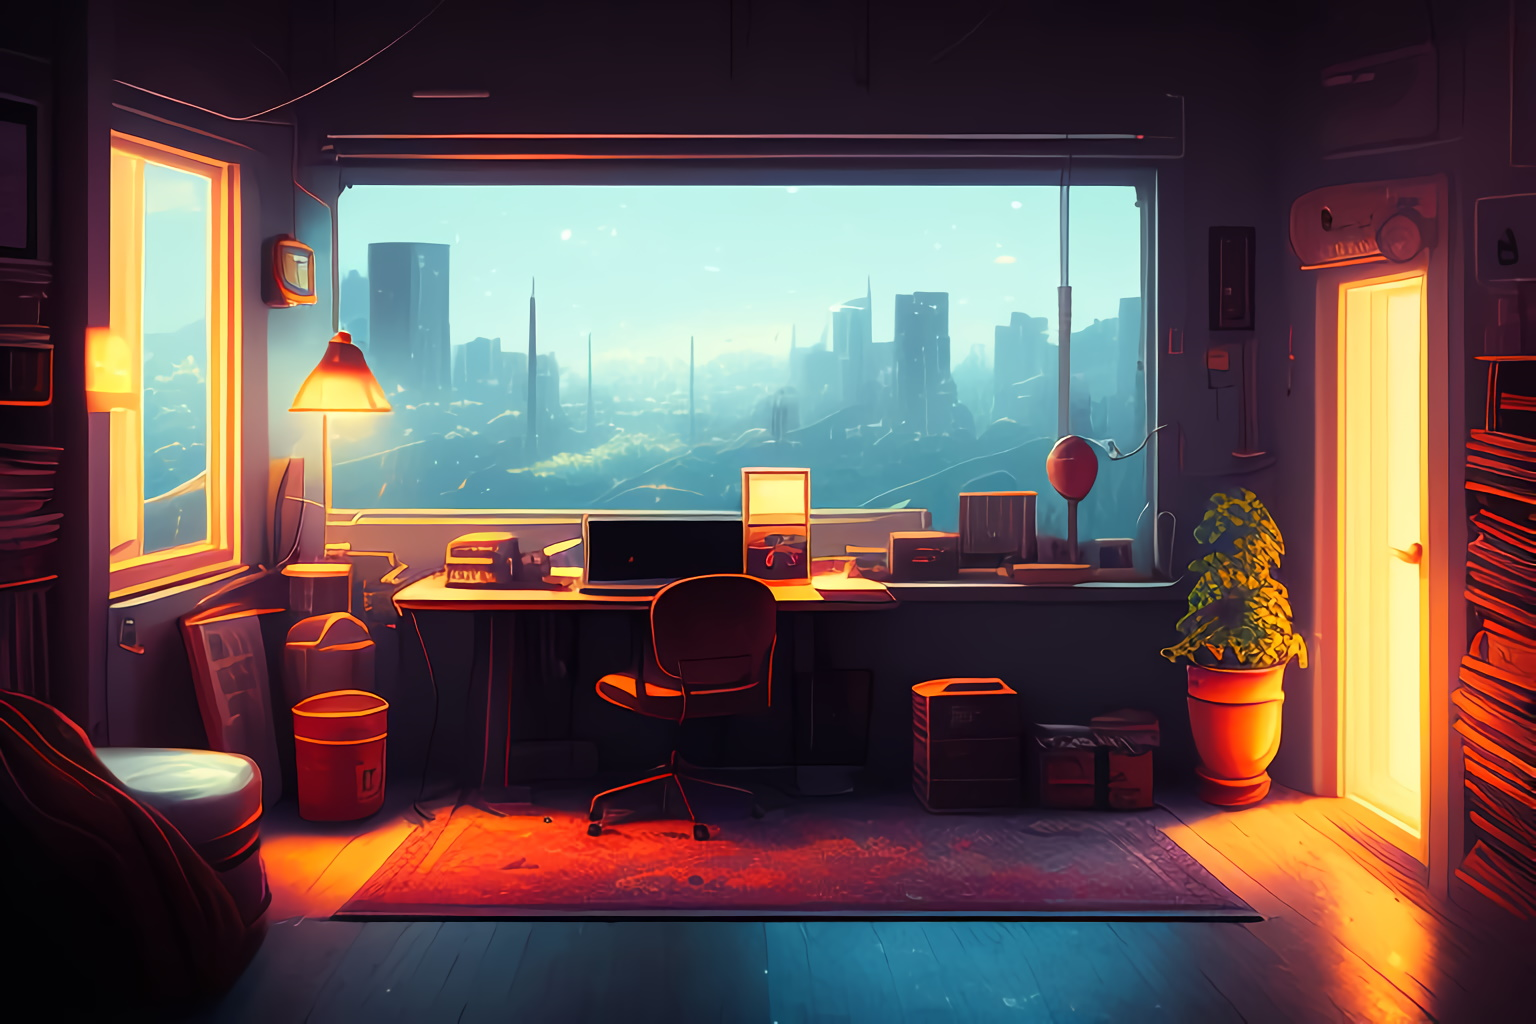
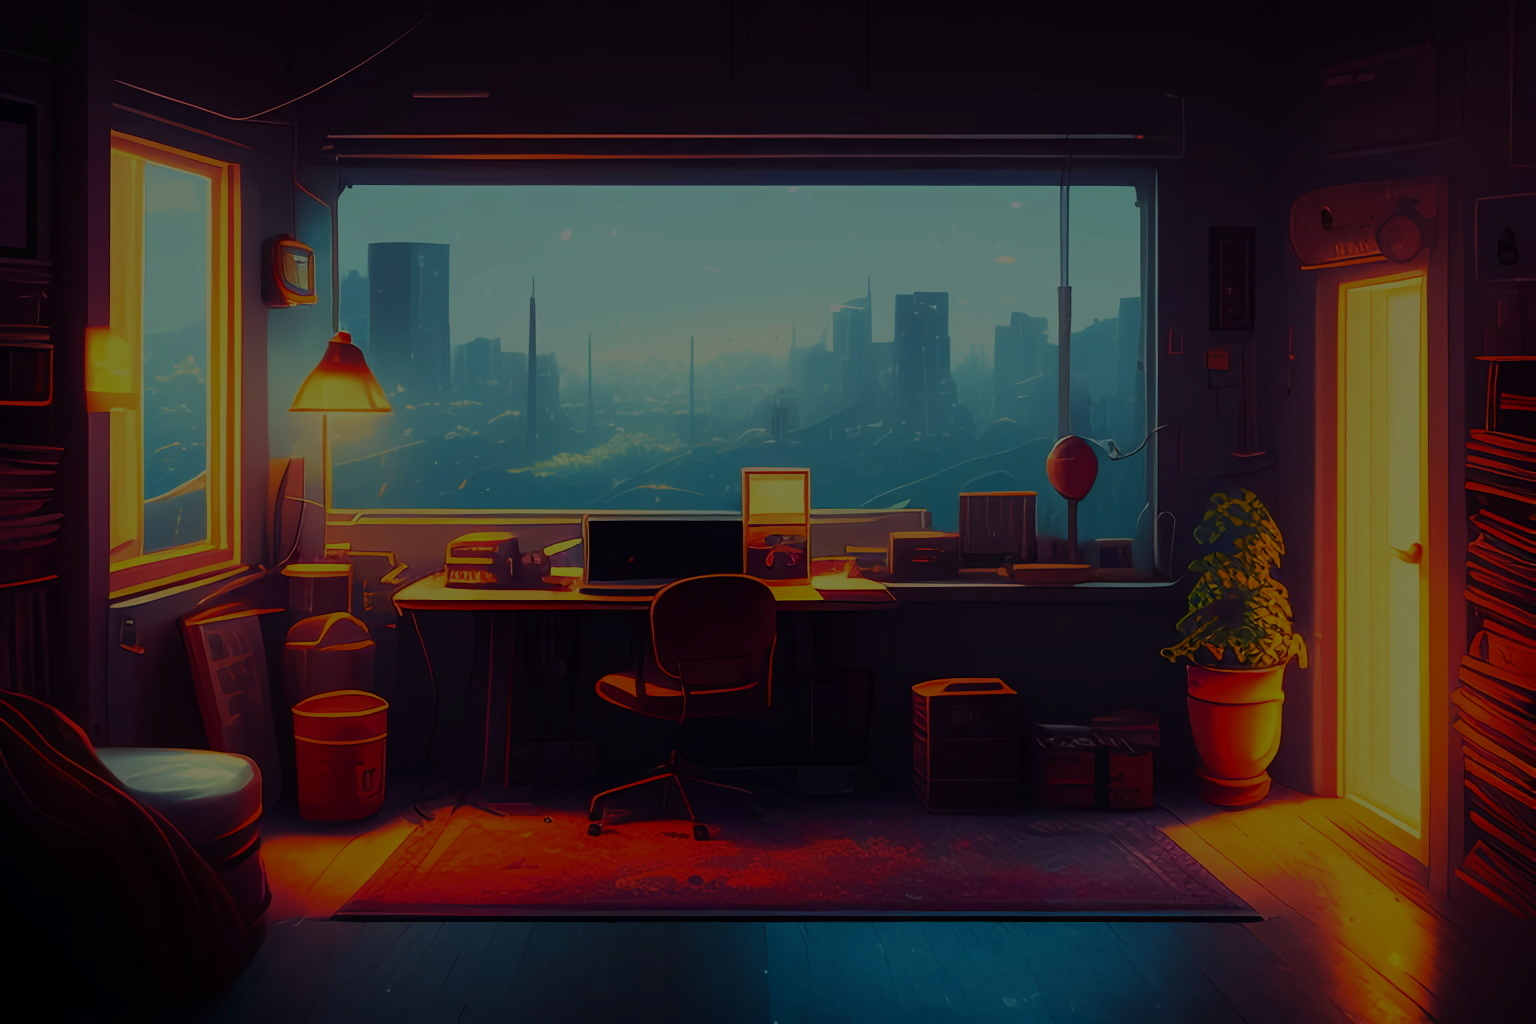
fix

diff --git a/README.md b/README.md
@@ -3,7 +3,7 @@
 <br />
 <div align="center">
   <a href="https://github.com/GuilleLegend">
-    <img src="https://github.com/GuilleLegend/Lofi-Cafe/blob/70db2df41b06c9ba79946bce366d2d3fce3ae096/client/assets/cover.jpg" alt="Logo" width="200" height="150">
+    <img src="https://github.com/GuilleLegend/Lofi-Cafe/blob/70db2df41b06c9ba79946bce366d2d3fce3ae096/client/assets/background2.jpg" alt="Logo" width="200" height="150">
   </a>
 
   <h1 align="center">Lofi Caffe</h1>
